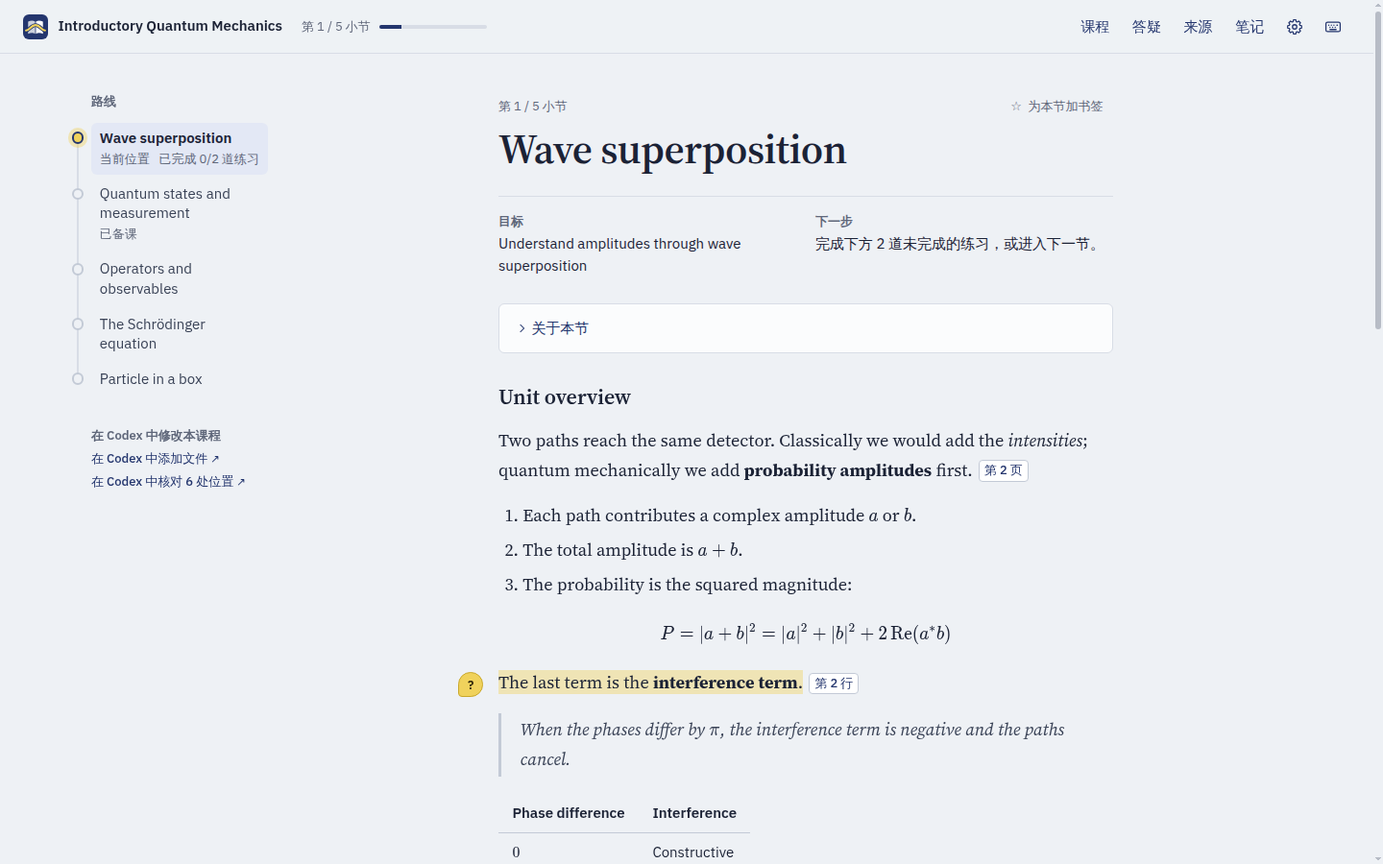
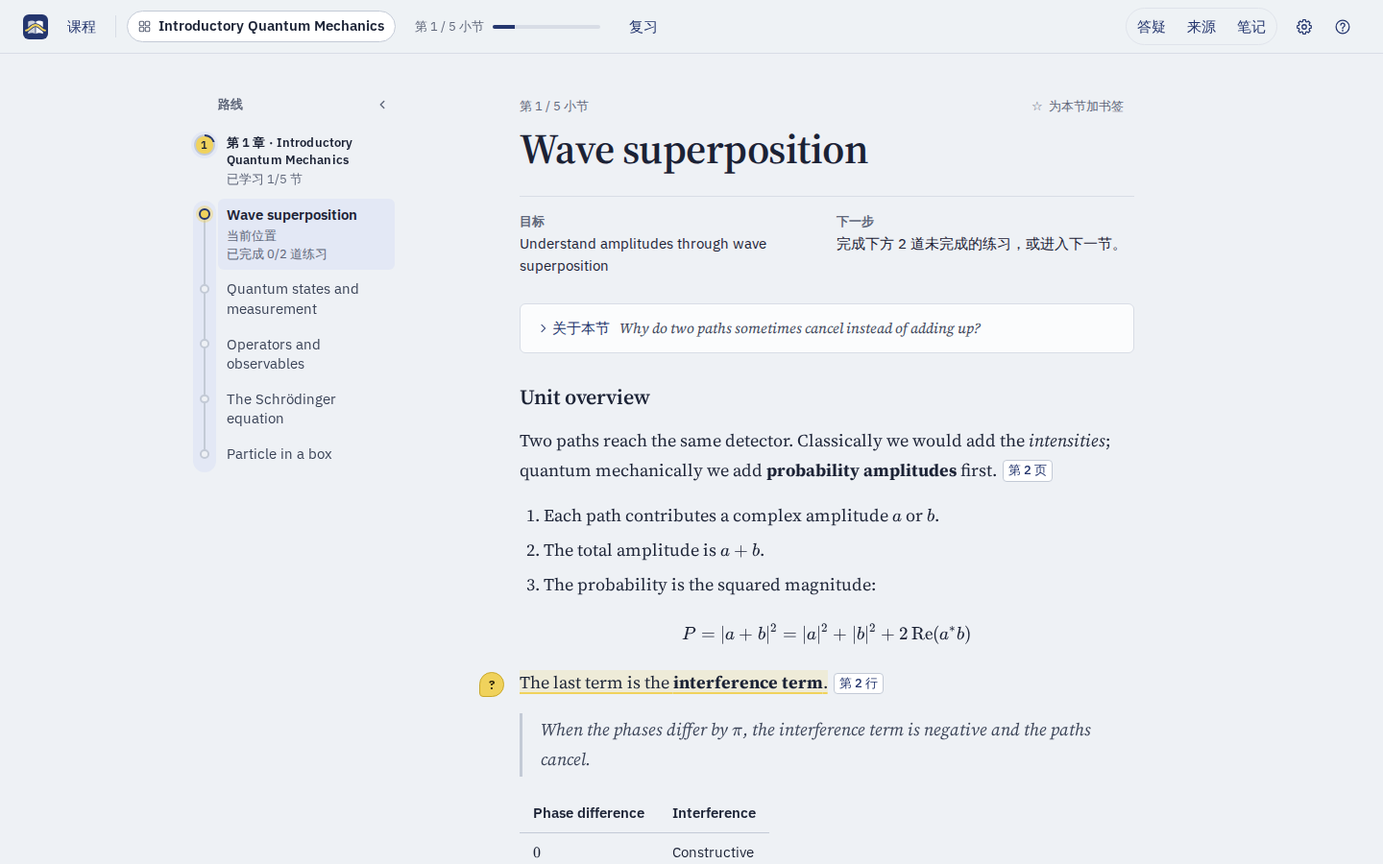
Refresh the READMEs, screenshots and architecture for Studio and the Course page
README and README.zh-CN: a new course starts in Codex and is changed in
Studio on the course page; the course page, Help and tips under Study;
Codex signed in or with an API key; language under Settings → Appearance.
Screenshots retaken in English and Chinese at the same sizes, plus a new
one of Studio asking an intake question. docs/architecture.md describes
the Course page, Help, tips and the side panel's three views.

diff --git a/web/tests/fixture.ts b/web/tests/fixture.ts
@@ -45,7 +45,7 @@ export async function dragSelect(page: Page, locator: ReturnType<Page['locator']
   return page.evaluate(() => window.getSelection()!.toString());
 }
 
-/** Language lives in the Settings dialog (Course, or Appearance before a course is open); choose it there and close the dialog again. */
+/** Language lives in the Settings dialog, under Appearance, its first pane; choose it there and close the dialog again. */
 export async function chooseLanguage(page: Page, language: 'en' | 'zh-CN') {
   await page.getByRole('button', { name: /^(Settings|设置)$/ }).click();
   await page.getByRole('radio', { name: language === 'en' ? 'English' : '简体中文' }).check();

diff --git a/docs/architecture.md b/docs/architecture.md
@@ -134,7 +134,7 @@ The browser cannot call domain operations directly; there is no generic operatio
 
 ## Interface (`web/`)
 
-`lib/store.svelte.ts` holds one reactive copy of `/api/state`, applies SSE deltas to running turns, and refetches after `changed` events: a burst of events costs one load in flight and at most one after it, a load that starts after an event covers it, and the scopes `preparation`, `memory`, `builds` and `settings` reload only that part (`?only=`). `lib/markdown.ts` renders sanitized Markdown with KaTeX and the teaching widgets (see above) and turns `[Source id / unit]` citations into source buttons, patching only changed blocks so streaming keeps selections and scroll. Before a course is open, and from **Courses** in the top bar, `Library` lists the courses; opening a course reloads the page so the store starts clean. Every hand-off of course work is a `CodexLink`. In an open course it opens Studio (`app.showStudio`, the one place that knows where Studio is mounted) with the `$throughline` request filled in in a new chat and, when it points somewhere (a chapter, the section on the page, a source location), an origin chip that is sent with the message as context; in the library, with `chat`, or where Studio cannot run, it opens a new Codex chat with the request typed in (`codex://new?prompt=…&path=<library>`), which also copies the request, for the Codex CLI or where the link is not handled, and for a few seconds reads "Request copied" in place of its label. The store keeps the library summary while a course is open (`app.libraryCourse`), so the course's own hand-offs (adding files and checking sources from `RouteRail`, checking an unchecked location from `SourceViewer`, building the route from an empty `ConceptPage`) name the course by its folder. Components map to the page: `TopBar`; `Library`; `RouteRail` (sections grouped under collapsible chapters when the course has them, the current section's step while a stepped lesson is taught, and a section counted as studied once `app.studied` holds: a completed lesson, none being written and no planned step left; chapters are numbered badges (`.route-badge`, whose rim fills with the share studied) and sections are dots (`.route-dot`), both global in `app.css`, with an open chapter's sections in a tray along the spine; `app.chapterOpen` decides which chapters are open for the full route and the capsule alike (the chapter in view, or the current one while the chapter in view is not built, with the learner's toggles until the chapter in view changes or they pick something to read), and the rail, the hover drawer and the phone drawer scroll to what is on the page, else the current section. `app.folded` folds it to `FoldedRoute`, a capsule centred in the visible column drawn with the same badges and dots, the sections of each open chapter in a tray under its badge, at most nine around the one in view; it folds when `#stage` is narrower than the rail and a reading column (measured by `App`) or when the learner folds it with its button or `r` (`app.routeFolded`, kept in the browser), and then sits at the stage's left edge. The full route then opens as a full-height drawer beside the capsule on hover); `ChapterPage` (a chapter's sections and their progress, the chapter's open exercises as `Exercise`s, source coverage, `ChapterRecap` (recap lessons) and `ChapterQuiz` (the current quiz with its progress, earlier quizzes), and skip, or `ChapterBuild` for a chapter not built yet: build it in the app, its progress, or the error with a Codex link as fallback; `NextSection` shows the same at the end of the last built chapter); `ConceptPage` (goal, and once a lesson exists the next step derived from the section's lessons and practice, questions saved for the section, `UnitOverview` under "About this section", `Lesson` with `TurnControls` (a step shows its position, title and whether the teacher added it; the latest completed step lists the steps left with Continue, which replaces `LessonRequest` until the lesson's last step), `LessonRequest` (start or re-teach the section, with an optional request), `Practice` (shown once the lesson is studied or exercises exist, with a solved-of-total line) with `Exercise` (help under "Stuck?" apart from Do later and Skip; a solved exercise folds its answer box until "Answer again"; one writing box answers or, after "Ask about this", asks about the exercise), `NextSection` with the next section's `Preparation`); `SidePanel` (`Questions` and `Notes` share one layout: a header (`.panel-head`, also used by `Memory` and `SourceList`), `PanelScope` (Section, Chapter, All with counts), a list grouped by `lib/panel.ts` and drawn by `PanelGroups`, and a `Composer` pinned to the panel's bottom (`.panel-foot`), which says what it writes to; `Questions` with `QuestionThread`, one thread open at a time, whose open thread keeps its question stuck to the panel's top while `Questions`' one composer asks a new question or follows up on the open thread, and which leaves the teacher's routing decision out, showing only a section it saves the full explanation for, `SourceViewer` with `SourceList` (grouped by this section, this chapter, and the rest), `PdfReader` and `MarkdownReader`, `Notes` (by section, chapter or course; notes render Markdown and math), `Memory` (confirmed preferences only, with edit and delete, then what the learner asked the teacher to remember with each reply, and a pinned `Composer` that sends a new request; `SuggestedMemory` asks a suggested preference only right after what suggested it: the `Lesson` step or `QuestionThread` answer whose turn id prefixes the entry id (`<turn id>:<index>`, `app.suggestedBy`), or the `Exercise` whose feedback job suggested it or whose skip completed a repeated skip reason), and `Studio` (ADR 0016; self-contained, with `active` saying it is on screen and scrolling whatever scrolls it, so it can move to another mount; `lib/studio.svelte.ts` keeps the open thread's turns as Codex sends them, applies the `studio` events and reads the thread again when a turn ends or a new thread starts: a chat picker, the transcript drawn by `StudioTurn` (the learner's message with its chips, Codex's commentary muted and its answer as Markdown, folded reasoning, each command as Codex's parsed actions with its output folded, diffs, the plan, web searches, tool calls and compaction) and `StudioRequest` (an approval with Approve focused, so Enter approves and Escape declines, or questions with their options), and a `Composer` whose editor suggests skills after `$` and the course's files after `@`, keeping them as chips (`insertChip`, `chipsOf` in `lib/editor.ts`: atomic marks that remember what they name), takes images and other files (copied into `inputs/` and mentioned), recalls sent messages with the up arrow, empties when sending, steers while Codex works and shows Stop, the access and the share of context used)); `Composer` is every writing box: answers, questions about an exercise, side questions and follow-ups (pinned to the panel's bottom with Notes' box, `.panel-foot`), section notes, lesson requests, memory requests and edits of a note or memory entry. Inside its frame sit a header saying where the text goes, a quoted passage, the text (a CodeMirror editor, `lib/editor.ts`: typing `\` suggests the LaTeX commands KaTeX renders and `\begin{` its environments, from `lib/latex-vocabulary.json`, which `npm run vocabulary` rebuilds from the installed KaTeX; Tab or Enter takes a suggestion and Tab then moves through its arguments; outside math a suggestion is wrapped in `$…$`, or `$$…$$` for an environment, using `inMath` from `lib/markdown.ts`, and each closed formula is checked with KaTeX, which underlines where it fails), a preview of its math, attached images (pasted, dropped or chosen; uploaded at once to `/api/images` and kept by name beside the draft, `app.drafts.images`), switches such as pausing the lesson, and a send button named for what it does; Ctrl+Enter (Cmd+Enter on a Mac) sends and Enter starts a new line in every box. `AttachedImages` shows sent images. `SelectionAsk` (Highlight, Note and Ask on a selected passage; clicking a highlight offers to note or remove it), `CitationPeek`, `SettingsDialog` (the top bar's one settings entry: categories on the left, each with an icon tile that fills with the accent when its category is open, each setting a row with its description and control, saved as it changes. Course: language as a segmented choice, the count of confirmed teaching preferences with a link to `Memory`, and exporting every note (`lib/notes.ts`: one Markdown file, or a ZIP with an `images/` folder when notes have images, packed by `lib/zip.ts`); Teacher: model, effort and Fast mode, Studio's Full access, then the small model and its effort under Background work, with teacher saves queued so the last change wins; Appearance: theme cards, plus the language before a course is open, when Appearance comes first), `Shortcuts`, `ReviewPage` (ADR 0014: **Review for me**, a request box (`Composer`) with chapter toggles as its scope, current sets and earlier ones folded, and the empty state; **Review** in the top bar opens it in the reading column and has no count; phones hide it) with `ReviewSet` (one set: its title by kind, progress, the teacher's note, recall questions drawn by `CheckQuestion` with `onanswer` and apply questions as `Exercise`s, Revisit after a miss (`app.revisit` quotes the question into a new side question with a ready draft), Done or Done for now, and the writing or failed state; a set stays current until closed or, once answered, for a day). `ConceptPage` offers a warm-up above the lesson request on the current section while its lesson has not started, from `review.warm_ups`, and shows the warm-up set there once taken. The side panel has no tabs of its own: a single switcher in the top bar (Questions, Source, Notes, Memory, Studio; phones leave Studio to the hand-offs) picks its view; while Studio is not on screen the top bar shows "Studio working…" or "Studio needs you" (from `/api/studio/activity` when a course opens, then the `studio` events), which opens the thread concerned, and picking the open view, the panel's close button or the view's shortcut closes it. An exercise is open until every part is correct (`solved` and `partStatuses` in `lib/format.ts`) or the learner skips it (`open`); every count of open exercises uses that, and a skipped exercise is left out of the solved-of-total counts too. A multi-part `Exercise` shows each part's status and parts correct out of parts. Items with `chapter_id` (recap turns, quiz questions) belong to the chapter page: `app.lessons` and `app.tasks` leave them out, so no section or route-rail count includes them, and `Notes` groups annotations on them under their chapter; review questions are not in `practice` at all. `PdfReader` uses pdf.js (`lib/pdf.ts`), loaded only when a PDF is first opened; it renders pages near the viewport and a selectable text layer. `lib/highlight.ts` paints asked passages and learner highlights with the CSS Custom Highlight API, so text is never rewrapped; a rendered formula (`[data-tex]`) inside a passage gets a `data-highlight-mine` or `data-highlight-asked` attribute that the stylesheet paints whole, since KaTeX's glyph boxes would leave gaps. Passages keep formulas as `$…$`, and a formula matches the rendered one with the same TeX, so a passage that is only a formula is found, painted and reached by Go to; a highlight records which repeat of its passage was selected (`occurrence`). The store shows annotation changes at once and keeps them applied over state reloads until the host confirms or rejects them. The window itself does not scroll: the reading column (route rail and page) scrolls in `#stage` beside the side panel, so its scrollbar ends where the panel begins; `lib/stage.ts` holds the offsets and scrolling that used to go through `window`, and forwards page-scrolling keys to the stage when nothing is focused. An error floats just below the top bar (`ErrorToast`) until dismissed.
+`lib/store.svelte.ts` holds one reactive copy of `/api/state`, applies SSE deltas to running turns, and refetches after `changed` events: a burst of events costs one load in flight and at most one after it, a load that starts after an event covers it, and the scopes `preparation`, `memory`, `builds` and `settings` reload only that part (`?only=`). `lib/markdown.ts` renders sanitized Markdown with KaTeX and the teaching widgets (see above) and turns `[Source id / unit]` citations into source buttons, patching only changed blocks so streaming keeps selections and scroll. Before a course is open, and from **Courses** in the top bar, `Library` lists the courses; opening a course reloads the page so the store starts clean. Every hand-off of course work is a `CodexLink`. In an open course it opens Studio (`app.showStudio`, the one place that knows where Studio is mounted) with the `$throughline` request filled in in a new chat and, when it points somewhere (a chapter, the section on the page, a source location), an origin chip that is sent with the message as context; in the library, with `chat`, or where Studio cannot run, it opens a new Codex chat with the request typed in (`codex://new?prompt=…&path=<library>`), which also copies the request, for the Codex CLI or where the link is not handled, and for a few seconds reads "Request copied" in place of its label. The store keeps the library summary while a course is open (`app.libraryCourse`), so the course's own hand-offs (adding files and checking sources from `RouteRail`, checking an unchecked location from `SourceViewer`, building the route from an empty `ConceptPage`) name the course by its folder. Components map to the page: `TopBar`; `Library`; `RouteRail` (sections grouped under collapsible chapters when the course has them, the current section's step while a stepped lesson is taught, and a section counted as studied once `app.studied` holds: a completed lesson, none being written and no planned step left; chapters are numbered badges (`.route-badge`, whose rim fills with the share studied) and sections are dots (`.route-dot`), both global in `app.css`, with an open chapter's sections in a tray along the spine; `app.chapterOpen` decides which chapters are open for the full route and the capsule alike (the chapter in view, or the current one while the chapter in view is not built, with the learner's toggles until the chapter in view changes or they pick something to read), and the rail, the hover drawer and the phone drawer scroll to what is on the page, else the current section. `app.folded` folds it to `FoldedRoute`, a capsule centred in the visible column drawn with the same badges and dots, the sections of each open chapter in a tray under its badge, at most nine around the one in view; it folds when `#stage` is narrower than the rail and a reading column (measured by `App`) or when the learner folds it with its button or `r` (`app.routeFolded`, kept in the browser), and then sits at the stage's left edge. The full route then opens as a full-height drawer beside the capsule on hover); `ChapterPage` (a chapter's sections and their progress, the chapter's open exercises as `Exercise`s, source coverage, `ChapterRecap` (recap lessons) and `ChapterQuiz` (the current quiz with its progress, earlier quizzes), and skip, or `ChapterBuild` for a chapter not built yet: build it in the app, its progress, or the error with a Codex link as fallback; `NextSection` shows the same at the end of the last built chapter); `ConceptPage` (goal, and once a lesson exists the next step derived from the section's lessons and practice, questions saved for the section, `UnitOverview` under "About this section", `Lesson` with `TurnControls` (a step shows its position, title and whether the teacher added it; the latest completed step lists the steps left with Continue, which replaces `LessonRequest` until the lesson's last step), `LessonRequest` (start or re-teach the section, with an optional request), `Practice` (shown once the lesson is studied or exercises exist, with a solved-of-total line) with `Exercise` (help under "Stuck?" apart from Do later and Skip; a solved exercise folds its answer box until "Answer again"; one writing box answers or, after "Ask about this", asks about the exercise), `NextSection` with the next section's `Preparation`); `SidePanel` (`Questions` and `Notes` share one layout: a header (`.panel-head`, also used by `Memory` and `SourceList`), `PanelScope` (Section, Chapter, All with counts), a list grouped by `lib/panel.ts` and drawn by `PanelGroups`, and a `Composer` pinned to the panel's bottom (`.panel-foot`), which says what it writes to; `Questions` with `QuestionThread`, one thread open at a time, whose open thread keeps its question stuck to the panel's top while `Questions`' one composer asks a new question or follows up on the open thread, and which leaves the teacher's routing decision out, showing only a section it saves the full explanation for, `SourceViewer` with `SourceList` (grouped by this section, this chapter, and the rest), `PdfReader` and `MarkdownReader`, `Notes` (by section, chapter or course; notes render Markdown and math), `Memory` (confirmed preferences only, with edit and delete, then what the learner asked the teacher to remember with each reply, and a pinned `Composer` that sends a new request; `SuggestedMemory` asks a suggested preference only right after what suggested it: the `Lesson` step or `QuestionThread` answer whose turn id prefixes the entry id (`<turn id>:<index>`, `app.suggestedBy`), or the `Exercise` whose feedback job suggested it or whose skip completed a repeated skip reason), and `Studio` (ADR 0016; self-contained, with `active` saying it is on screen and scrolling whatever scrolls it, so it can move to another mount; `lib/studio.svelte.ts` keeps the open thread's turns as Codex sends them, applies the `studio` events and reads the thread again when a turn ends or a new thread starts: a chat picker, the transcript drawn by `StudioTurn` (the learner's message with its chips, Codex's commentary muted and its answer as Markdown, folded reasoning, each command as Codex's parsed actions with its output folded, diffs, the plan, web searches, tool calls and compaction) and `StudioRequest` (an approval with Approve focused, so Enter approves and Escape declines, or questions with their options), and a `Composer` whose editor suggests skills after `$` and the course's files after `@`, keeping them as chips (`insertChip`, `chipsOf` in `lib/editor.ts`: atomic marks that remember what they name), takes images and other files (copied into `inputs/` and mentioned), recalls sent messages with the up arrow, empties when sending, steers while Codex works and shows Stop, the access and the share of context used)); `Composer` is every writing box: answers, questions about an exercise, side questions and follow-ups (pinned to the panel's bottom with Notes' box, `.panel-foot`), section notes, lesson requests, memory requests and edits of a note or memory entry. Inside its frame sit a header saying where the text goes, a quoted passage, the text (a CodeMirror editor, `lib/editor.ts`: typing `\` suggests the LaTeX commands KaTeX renders and `\begin{` its environments, from `lib/latex-vocabulary.json`, which `npm run vocabulary` rebuilds from the installed KaTeX; Tab or Enter takes a suggestion and Tab then moves through its arguments; outside math a suggestion is wrapped in `$…$`, or `$$…$$` for an environment, using `inMath` from `lib/markdown.ts`, and each closed formula is checked with KaTeX, which underlines where it fails), a preview of its math, attached images (pasted, dropped or chosen; uploaded at once to `/api/images` and kept by name beside the draft, `app.drafts.images`), switches such as pausing the lesson, and a send button named for what it does; Ctrl+Enter (Cmd+Enter on a Mac) sends and Enter starts a new line in every box. `AttachedImages` shows sent images. `SelectionAsk` (Highlight, Note and Ask on a selected passage; clicking a highlight offers to note or remove it), `CitationPeek`, `SettingsDialog` (the top bar's one settings entry: categories on the left, each with an icon tile that fills with the accent when its category is open, each setting a row with its description and control, saved as it changes. Course: language as a segmented choice, the count of confirmed teaching preferences with a link to `Memory`, and exporting every note (`lib/notes.ts`: one Markdown file, or a ZIP with an `images/` folder when notes have images, packed by `lib/zip.ts`); Teacher: model, effort and Fast mode, Studio's Full access, then the small model and its effort under Background work, with teacher saves queued so the last change wins; Appearance: theme cards, and the language, saved in the open course; Appearance comes first, then Teacher and About), `Help`, `ReviewPage` (ADR 0014: **Review for me**, a request box (`Composer`) with chapter toggles as its scope, current sets and earlier ones folded, and the empty state; **Review** in the top bar opens it in the reading column and has no count; phones hide it) with `ReviewSet` (one set: its title by kind, progress, the teacher's note, recall questions drawn by `CheckQuestion` with `onanswer` and apply questions as `Exercise`s, Revisit after a miss (`app.revisit` quotes the question into a new side question with a ready draft), Done or Done for now, and the writing or failed state; a set stays current until closed or, once answered, for a day). `ConceptPage` offers a warm-up above the lesson request on the current section while its lesson has not started, from `review.warm_ups`, and shows the warm-up set there once taken. The side panel has no tabs of its own: a switcher in the top bar (Questions, Source, Notes) picks its view, and picking the open view, the panel's close button or the view's shortcut closes it. The course as a whole is `CoursePage` (ADR 0017), opened from the course button in the top bar, which reads from the app to the course to the section: a strip of chapters, then one tab at a time, Studio, Course memory, Sources and Your notes, each kept mounted while hidden; `Memory` and `Studio` sit there in frames of their own, and `app.showCourse(part)`, `app.showStudio` and `app.studioShown` are the only places that know the mount. While Studio is not on screen the top bar shows "Studio working…" or "Studio needs you" (from `/api/studio/activity` when a course opens, then the `studio` events), which opens the thread concerned. `Help` (`?`) maps what the learner can do by level, with "Show me" rings (`lib/spotlight.ts`), and `Hint` shows a one-time tip beside a gesture nothing on screen reveals, one at a time, remembered per user in `seen.json` (`GET`/`POST /api/seen`). An exercise is open until every part is correct (`solved` and `partStatuses` in `lib/format.ts`) or the learner skips it (`open`); every count of open exercises uses that, and a skipped exercise is left out of the solved-of-total counts too. A multi-part `Exercise` shows each part's status and parts correct out of parts. Items with `chapter_id` (recap turns, quiz questions) belong to the chapter page: `app.lessons` and `app.tasks` leave them out, so no section or route-rail count includes them, and `Notes` groups annotations on them under their chapter; review questions are not in `practice` at all. `PdfReader` uses pdf.js (`lib/pdf.ts`), loaded only when a PDF is first opened; it renders pages near the viewport and a selectable text layer. `lib/highlight.ts` paints asked passages and learner highlights with the CSS Custom Highlight API, so text is never rewrapped; a rendered formula (`[data-tex]`) inside a passage gets a `data-highlight-mine` or `data-highlight-asked` attribute that the stylesheet paints whole, since KaTeX's glyph boxes would leave gaps. Passages keep formulas as `$…$`, and a formula matches the rendered one with the same TeX, so a passage that is only a formula is found, painted and reached by Go to; a highlight records which repeat of its passage was selected (`occurrence`). The store shows annotation changes at once and keeps them applied over state reloads until the host confirms or rejects them. The window itself does not scroll: the reading column (route rail and page) scrolls in `#stage` beside the side panel, so its scrollbar ends where the panel begins; `lib/stage.ts` holds the offsets and scrolling that used to go through `window`, and forwards page-scrolling keys to the stage when nothing is focused. An error floats just below the top bar (`ErrorToast`) until dismissed.
 
 Learner annotations are never part of a prompt snapshot or prompt (ADR 0005).
 

diff --git a/README.md b/README.md
@@ -15,7 +15,7 @@ The teacher makes instructional judgments from your materials. The program valid
 
 ## Install
 
-You need Codex, signed in (the desktop app or the [CLI](https://learn.chatgpt.com/docs/codex/cli)). Then paste this into Codex:
+You need Codex, signed in or set up with an API key (the desktop app or the [CLI](https://learn.chatgpt.com/docs/codex/cli)). Then paste this into Codex:
 
 ```text
 Install https://github.com/keweijun/throughline
@@ -73,23 +73,25 @@ To uninstall, run `guided-learning stop`, then `uv tool uninstall throughline` (
 
 ## Create your first course
 
-After installing, Throughline opens in your browser. From then on, start any Codex chat with **`$throughline`** to work on your courses.
+After installing, Throughline opens in your browser on your course library. A new course starts in Codex, which reads your files and asks you a few questions:
 
 1. Type `$throughline make a course from these files`, attach your PDFs or notes (or name the folder they are in), and say in a sentence what you want to learn, for example "quantum mechanics up to perturbation theory, for my exam".
 2. Codex asks a few quick questions: your goal and deadline, how well you know each prerequisite it found in the files, and how much detail you want. Then it suggests a course name, copies your files into the Throughline folder, builds a route across them and tells you what still needs checking.
 3. When it is done, the course opens in Throughline in your browser. Next time, open it from the **Throughline** launcher in your app menu.
 
-Later courses work the same way: `$throughline` in any Codex chat, or **New course in Codex** in the Throughline library.
+Later courses work the same way: **New course in Codex** in the library, or `$throughline` in any Codex chat. Once a course exists, you change it from inside Throughline, in **Studio**.
 
 ## How it works
 
-Throughline is where you study; Codex is where courses are built. You move between them in one click.
+Throughline is where you study and where you change a course; a new course starts in Codex.
 
-- **Study in Throughline.** Open it from the **Throughline** launcher in your app menu (setup adds it). Lessons, questions and practice run Codex in the background, so you never need Codex open to study.
-- **Build courses in Codex.** Start any Codex chat with `$throughline`. In the library, **New course in Codex**, **Add files in Codex** and **Review in Codex** open a new Codex chat with the `$throughline` request typed in: attach your files and send. Codex reads them, builds the route and opens the course in Throughline when it is done; an open Throughline tab updates by itself.
-- **Ask for anything.** `$throughline add this problem set to quantum`, `$throughline make the quantum course more rigorous`, `$throughline open quantum`. Codex asks for permission the first time it starts Throughline, because the app keeps running in the background.
+- **Study in Throughline.** Open it from the **Throughline** launcher in your app menu (setup adds it), or run `throughline`. Lessons, questions and practice run Codex in the background, so you never need Codex open to study. The library tells you where the launcher is, can add it to your desktop, and says so if Codex can't answer.
+- **Change a course in Studio.** The course button in the top bar opens the course's page; its first tab, **Studio** (or press `d`), is a Codex chat inside Throughline with the same `$throughline` skill. Ask it to add a problem set, rebuild a chapter, check pages or teach a chapter more rigorously; attach or drop files, mention them with `@`, and approve what Codex asks. You can keep studying while it works: the top bar says when Studio needs you. **Add files in Studio** below the route and **Check this location in Studio** in the reader open it with the request filled in, and what you ask it to remember about how you like to be taught goes into the course memory.
+- **Start a course in Codex.** In the library, **New course in Codex** opens a new Codex chat with the `$throughline` request typed in: attach your files and send. Codex reads them, builds the route and opens the course in Throughline when it is done; an open Throughline tab updates by itself. A Codex chat with `$throughline` can also change a course, for example `$throughline add this problem set to quantum`.
 
-![The course library listing three courses with their sources, sections, review backlog and current section](docs/images/library-en.png)
+![Studio on the course page: a Codex chat inside Throughline, asking a question before it adds a problem set](docs/images/studio-en.png)
+
+![The course library listing three courses, with where to find Throughline next time](docs/images/library-en.png)
 
 ## Study
 
@@ -98,6 +100,8 @@ Throughline is where you study; Codex is where courses are built. You move betwe
 - **Side questions.** Select a sentence or formula and ask about it. The lesson keeps going unless you pause it. Questions that a later section answers properly are saved for that section.
 - **Sources.** Hover a citation to see the cited text; click it to open the exact page or line in the built-in reader. Unchecked sources stay marked "Not checked yet".
 - **Practice.** Exercises follow each lesson. Hints and solutions are always available, but help is recorded, so a helped answer is never counted as solved on your own. If the exercises don't suit you, ask for different ones and say what should change, or ask for another like one you just did.
+- **The course page.** The course button in the top bar shows the course as a whole: a strip of its chapters, filled as you study, then **Studio**, **Course memory**, **Sources** and **Your notes** as tabs. In Course memory you tell the teacher, in your own words, how you like to be taught; a preference the teacher suggests is asked right where it comes up.
+- **Help.** `?` shows what you can do in the app, the course and the section you're reading, with **Show me** to point at each control, and the keyboard shortcuts. The first time you meet something you can't see, like selecting a passage, a short tip says how it works.
 - **Review.** Whenever you like, **Review** asks for a few questions to answer from memory: quick ones you answer by choosing and written ones that connect ideas across sections. **Review for me** lets the teacher pick what you have gone longest without practising and what you missed before; or say what you want to review. Nothing comes due. Before a section that builds on something you studied a while ago, you are offered a short warm-up, and each chapter page offers an optional chapter quiz.
 
 <table>
@@ -111,12 +115,12 @@ Throughline is where you study; Codex is where courses are built. You move betwe
   </tr>
 </table>
 
-The interface and new teaching default to English; switch to Simplified Chinese under Language in Settings (the gear in the top bar). Imported materials and earlier records keep their original language. More in [using the interface](docs/learning-ui.md).
+The interface and new teaching default to English; switch to Simplified Chinese under Settings (the gear in the top bar) → Appearance → Language. Imported materials and earlier records keep their original language. More in [using the interface](docs/learning-ui.md).
 
 ## Where things live
 
 - **Courses:** your Throughline folder, `~/Throughline` (`C:\Users\<you>\Throughline` on Windows). It is deliberately outside Documents, which OneDrive and iCloud often sync: a course's database can be corrupted by sync. To use another folder, set `GUIDED_LEARNING_HOME`; if you point it at a synced folder, open each course on only one computer at a time. It holds an `AGENTS.md` that tells Codex how to work there. Each course is one subfolder holding its source files (`inputs/`), snapshots, route, position and learning evidence; to move a course, stop the app and copy its folder.
-- **Teacher settings:** open **Settings** (the gear in the top bar) to pick the teacher model, a small model for background preparation and note consolidation, reasoning effort for each, and fast mode; the model lists come from your Codex sign-in. They are saved per user in `~/.config/guided-learning/settings.json` (`%APPDATA%\guided-learning\settings.json` on Windows), never in a course.
+- **Teacher settings:** open **Settings** (the gear in the top bar) to pick the teacher model, a small model for background preparation and note consolidation, reasoning effort for each, fast mode, and Studio's Full access; the model lists come from your Codex sign-in. They are saved per user in `~/.config/guided-learning/settings.json` (`%APPDATA%\guided-learning\settings.json` on Windows), never in a course.
 
 Extracted text does not verify formulas, images or coverage, so the library and reader show what still needs review. See [creating and reviewing a course](docs/course-import.md).
 

diff --git a/README.zh-CN.md b/README.zh-CN.md
@@ -15,7 +15,7 @@
 
 ## 安装
 
-你需要已登录的 Codex（桌面应用或 [CLI](https://learn.chatgpt.com/docs/codex/cli) 均可）。然后把这句话粘贴到 Codex：
+你需要已登录或已配置 API 密钥的 Codex（桌面应用或 [CLI](https://learn.chatgpt.com/docs/codex/cli) 均可）。然后把这句话粘贴到 Codex：
 
 ```text
 安装 https://github.com/keweijun/throughline
@@ -73,23 +73,25 @@ guided-learning setup --language zh-CN
 
 ## 创建第一门课程
 
-安装完成后，贯学会在浏览器中打开。之后在任意 Codex 对话中以 **`$throughline`** 开头，就能处理你的课程。
+安装完成后，贯学会在浏览器中打开课程库。新课程在 Codex 中创建，Codex 会读你的文件并问你几个问题：
 
 1. 输入 `$throughline 用这些文件建一门课`，附上你的 PDF 或笔记（也可以写出它们所在的文件夹），再用一句话说明想学什么，例如“量子力学，学到微扰理论，为了期末考试”。
 2. Codex 会先问几个简单的问题：你的目标和截止时间、对资料所需的各项先修知识掌握得如何、希望讲到多细。然后它会建议课程名，把文件复制进贯学文件夹，生成跨资料的学习路线，并告诉你哪些内容仍需核对。
 3. 完成后，课程会在浏览器的贯学中打开。之后可以从应用菜单里的 **Throughline** 启动器直接打开。
 
-以后创建课程也是一样：在任意 Codex 对话中输入 `$throughline`，或在贯学课程库中点击 **在 Codex 中新建课程**。
+以后创建课程也是一样：在课程库中点击 **在 Codex 中新建课程**，或在任意 Codex 对话中输入 `$throughline`。课程建好后，就在贯学里的 **课程工坊** 中修改。
 
 ## 工作方式
 
-在贯学里学习，在 Codex 里创建课程，两者之间一键切换。
+在贯学里学习、修改课程；新课程从 Codex 开始。
 
-- **在贯学里学习**：从应用菜单中的 **Throughline** 启动器打开（安装时会自动添加）。讲解、提问和练习都在后台调用 Codex，学习时不需要打开 Codex。
-- **在 Codex 里创建课程**：在任意 Codex 对话中以 `$throughline` 开头。在课程库中点击 **在 Codex 中新建课程**、**在 Codex 中添加文件** 或 **在 Codex 中核对**，会新建一段已填好 `$throughline` 请求的 Codex 对话：附上文件后发送即可。Codex 读完资料、生成路线后会在贯学中打开这门课程；已打开的贯学页面会自动更新。
-- **想做什么直接说**：`$throughline 把这份习题加入 quantum`、`$throughline 把量子课讲得更严谨些`、`$throughline 打开 quantum`。Codex 第一次启动贯学时会请求权限，因为应用会在后台持续运行。
+- **在贯学里学习**：从应用菜单中的 **Throughline** 启动器打开（安装时会自动添加），或运行 `throughline`。讲解、提问和练习都在后台调用 Codex，学习时不需要打开 Codex。课程库会告诉你启动器在哪里、可以把它添加到桌面，Codex 无法回复时也会提示。
+- **在课程工坊里修改课程**：点击顶栏中的课程按钮打开课程页，第一个标签 **课程工坊**（或按 `d`）就是贯学里的 Codex 对话，使用同一个 `$throughline` 技能。可以让它加入一份习题、重建某一章、核对页面，或把某一章讲得更严谨；可以附上或拖入文件、用 `@` 引用文件，并批准 Codex 的请求。它工作时你可以继续学习，需要你时顶栏会提示。路线下方的 **在课程工坊中添加文件** 和阅读器中的 **在课程工坊中核对此位置** 会打开已填好请求的课程工坊；你要求它记住的学习偏好会写入课程记忆。
+- **在 Codex 里创建课程**：在课程库中点击 **在 Codex 中新建课程**，会新建一段已填好 `$throughline` 请求的 Codex 对话：附上文件后发送即可。Codex 读完资料、生成路线后会在贯学中打开这门课程；已打开的贯学页面会自动更新。在 Codex 对话中用 `$throughline` 也能修改课程，例如 `$throughline 把这份习题加入 quantum`。
 
-![课程库：列出三门课程及其资料、小节、待核对数量和当前学习位置](docs/images/library-zh-CN.png)
+![课程页上的课程工坊：贯学里的 Codex 对话，在加入习题前先问你一个问题](docs/images/studio-zh-CN.png)
+
+![课程库：列出三门课程，并说明下次在哪里打开贯学](docs/images/library-zh-CN.png)
 
 ## 学习
 
@@ -98,6 +100,8 @@ guided-learning setup --language zh-CN
 - **旁支提问**：选中一句话或一个公式即可提问，讲解默认继续进行，除非你选择暂停。如果某个问题要到后面的小节才能讲透，它会被保存到那个小节。
 - **资料原文**：把鼠标停在引用上可预览原文，点击后在内置阅读器中打开对应的页或行。尚未核对的资料会一直标注"尚未核对"。
 - **练习**：每次讲解后都有练习。提示和答案随时可看，但会如实记录，得到帮助后的正确回答不会算作独立完成。练习不合适时，可以换一组并说明希望有什么不同，也可以针对某道题再来一道类似的。
+- **课程页**：点击顶栏中的课程按钮可以查看整门课程：一条按章节显示学习进度的进度条，下面是 **课程工坊**、**课程记忆**、**来源** 和 **我的笔记** 几个标签。在课程记忆中，你可以用自己的话告诉老师你喜欢怎样学习；老师提出的偏好会在出现的地方直接询问你。
+- **帮助**：按 `?` 可以看到在整个应用、这门课和当前小节里能做什么，**指给我看** 会标出每个控件的位置，下面还有键盘快捷键。第一次遇到看不出用法的操作（比如选中一段内容）时，会有一条简短提示。
 - **复习**：想复习时随时点 **复习** 要几道题，凭记忆作答：有选一选就能答的快题，也有把几个小节联系起来的书面题。**帮我复习** 让教师挑你最久没练习的内容和之前答错的地方；你也可以自己说想复习什么。没有到期提醒。学到一个建立在较早内容上的小节时，会先提供一次简短热身；每个章节页还可以做一次章节测验。
 
 <table>
@@ -111,12 +115,12 @@ guided-learning setup --language zh-CN
   </tr>
 </table>
 
-界面和新的讲解默认使用英文，可以在 **设置**（顶栏中的齿轮）的语言一项中切换为简体中文。导入的资料和已有记录保留原来的语言，所以上图中的英文课程内容不会被翻译。更多说明见[界面使用说明](docs/learning-ui.md)（英文）。
+界面和新的讲解默认使用英文，可以在 **设置**（顶栏中的齿轮）→ 外观 → 语言 中切换为简体中文。导入的资料和已有记录保留原来的语言，所以上图中的英文课程内容不会被翻译。更多说明见[界面使用说明](docs/learning-ui.md)（英文）。
 
 ## 文件在哪里
 
 - **课程**：你的贯学文件夹 `~/Throughline`（Windows 上是 `C:\Users\<你>\Throughline`）。它特意放在“文档”之外，因为“文档”常被 OneDrive 或 iCloud 同步，而同步可能损坏课程数据库。设置 `GUIDED_LEARNING_HOME` 可改用其他文件夹；如果指向同步文件夹，请每门课程同一时间只在一台电脑上打开。其中的 `AGENTS.md` 告诉 Codex 如何在这里工作。每门课程是一个子文件夹，包含源文件（`inputs/`）、资料快照、路线、进度和学习记录；要迁移课程，先关闭应用，再复制整个文件夹。
-- **教师设置**：点击顶栏中的齿轮打开 **设置**，在教师一项中选择你的 Codex 账号提供的模型：教师模型、用于准备后续小节和整理笔记的小模型、各自的推理强度，以及快速模式。设置按用户保存在 `~/.config/guided-learning/settings.json`（Windows 上是 `%APPDATA%\guided-learning\settings.json`），不会写进任何课程。
+- **教师设置**：点击顶栏中的齿轮打开 **设置**，在教师一项中选择你的 Codex 账号提供的模型：教师模型、用于准备后续小节和整理笔记的小模型、各自的推理强度、快速模式，以及课程工坊的完全访问。设置按用户保存在 `~/.config/guided-learning/settings.json`（Windows 上是 `%APPDATA%\guided-learning\settings.json`），不会写进任何课程。
 
 文字提取并不能保证公式、图片或覆盖范围正确，所以课程库和阅读器会标出仍需核对的内容。参见[创建与核对课程](docs/course-import.md)（英文）。
 
